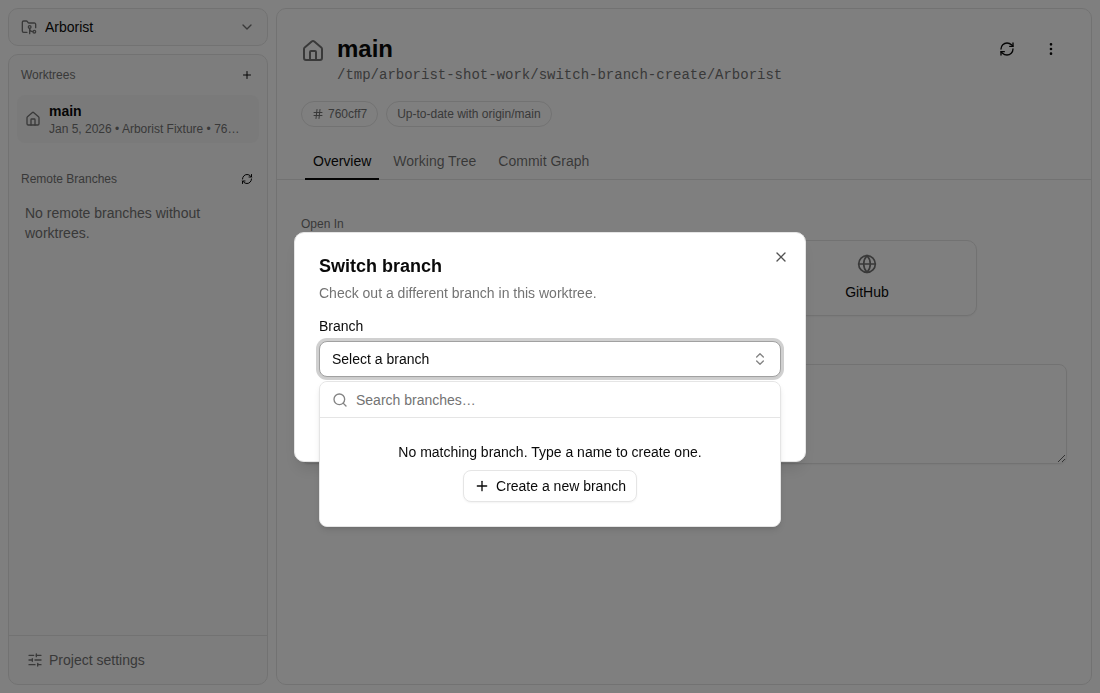
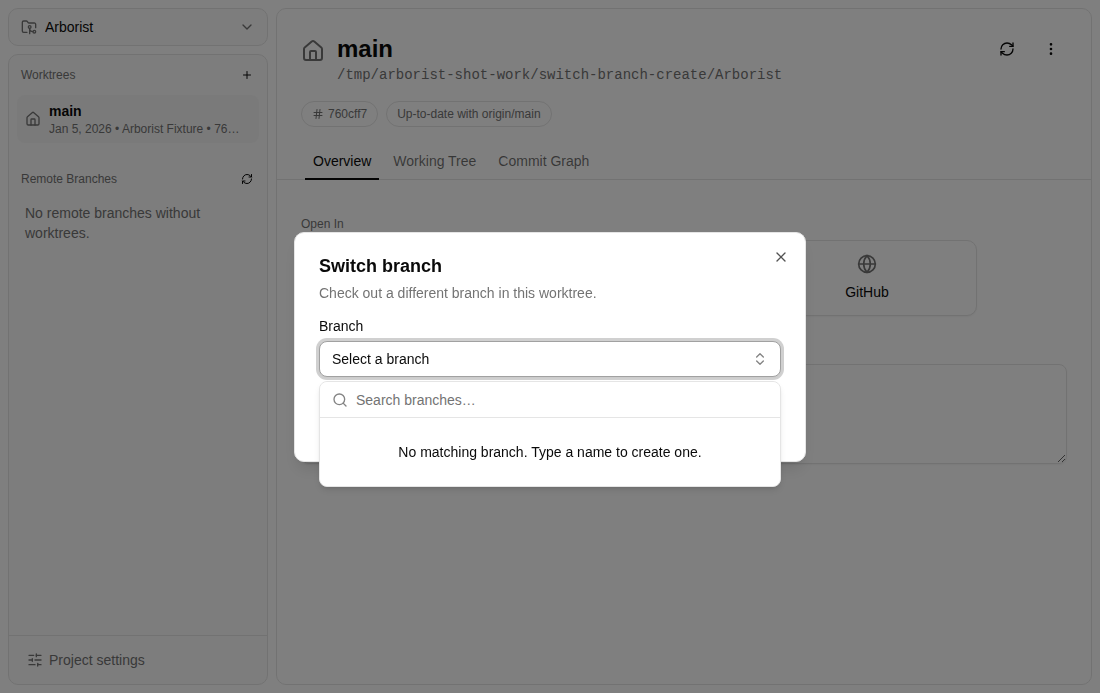
Remove the non-working empty-state create-branch button
The owner reported the "Create a new branch" button added in 66e0046
doesn't work — confirmed: the screenshot scenario's own drive step
couldn't find/click it either (waitFor on the button role timed out).
Rather than chase why a plain Button inside cmdk's CommandEmpty wasn't
receiving clicks, per the owner's own call ("I'm fine to just remove
it, the message is good enough") this drops the button and keeps only
the hint text ("No matching branch. Type a name to create one.").

Updated the switch-branch-create scenario's "empty" step to wait on
the text instead of the removed button.

Claude-Session: https://claude.ai/code/session_01P9H3jnsgNrtaxnqUfaxc3W

Changed region(s): [[0.2782, 0.697, 0.7109, 0.7576]]

diff --git a/src/renderer/src/components/branch-combobox.tsx b/src/renderer/src/components/branch-combobox.tsx
@@ -1,4 +1,4 @@
-import { useRef, useState } from 'react'
+import { useState } from 'react'
 import { Check, ChevronsUpDown, Plus } from 'lucide-react'
 import { cn } from '@/lib/utils'
 import { Button } from '@/components/ui/button'
@@ -27,11 +27,8 @@ export interface BaseRefOption {
  *
  * `allowCreate` adds a "Create branch “x”" row whenever the typed search
  * doesn't exactly match an existing option — the switch-branch dialog's
- * create-a-new-branch flow (#69 review). When there's nothing typed yet and
- * nothing to pick from, the empty state itself calls that out with a button
- * rather than relying on the user already knowing typing a name works (#69
- * review, round two). The base-ref picker on create-worktree leaves it
- * unset: every base there has to already exist.
+ * create-a-new-branch flow (#69 review). The base-ref picker on
+ * create-worktree leaves it unset: every base there has to already exist.
  */
 export function BranchCombobox({
   value,
@@ -48,7 +45,6 @@ export function BranchCombobox({
 }): React.JSX.Element {
   const [open, setOpen] = useState(false)
   const [search, setSearch] = useState('')
-  const inputRef = useRef<HTMLInputElement>(null)
   const selected = options.find((option) => option.value === value)
 
   const trimmedSearch = search.trim()
@@ -96,38 +92,14 @@ export function BranchCombobox({
         onOpenAutoFocus={(event) => event.preventDefault()}
       >
         <Command>
-          <CommandInput
-            ref={inputRef}
-            placeholder="Search branches…"
-            value={search}
-            onValueChange={setSearch}
-          />
+          <CommandInput placeholder="Search branches…" value={search} onValueChange={setSearch} />
           <CommandList>
             <CommandEmpty>
-              {loading ? (
-                'Loading…'
-              ) : allowCreate && trimmedSearch.length === 0 ? (
-                // Nothing typed yet and nothing to pick from — the bare "No
-                // matching branch." left the create flow undiscoverable
-                // (#69 review): a button gives it a visible affordance
-                // rather than relying on the user to already know that
-                // typing a name works.
-                <div className="flex flex-col items-center gap-2">
-                  <span>No matching branch. Type a name to create one.</span>
-                  <Button
-                    type="button"
-                    variant="outline"
-                    size="sm"
-                    className="gap-1.5"
-                    onClick={() => inputRef.current?.focus()}
-                  >
-                    <Plus />
-                    Create a new branch
-                  </Button>
-                </div>
-              ) : (
-                'No matching branch.'
-              )}
+              {loading
+                ? 'Loading…'
+                : allowCreate && trimmedSearch.length === 0
+                  ? 'No matching branch. Type a name to create one.'
+                  : 'No matching branch.'}
             </CommandEmpty>
             {showCreate && (
               <CommandGroup heading="Create">

diff --git a/scripts/screenshots/scenarios.ts b/scripts/screenshots/scenarios.ts
@@ -1127,13 +1127,12 @@ export const scenarios: Scenario[] = [
     name: 'switch-branch-create',
     description:
       'Creating a new branch from the switch-branch picker (#69 review): ' +
-      'the empty state\'s "Create a new branch" button and hint text before ' +
-      'anything is typed — this fixture has no other local branches to ' +
-      'pick, so that empty state is what greets the picker — the "Create ' +
-      'branch" row that then appears once a typed name matches no existing ' +
-      'branch, the Base picker it reveals (defaulting to HEAD), and the ' +
-      'worktree afterwards, now checked out on the branch that was just ' +
-      'created.',
+      'the empty state\'s hint text before anything is typed — this fixture ' +
+      'has no other local branches to pick, so that empty state is what ' +
+      'greets the picker — the "Create branch" row that then appears once ' +
+      'a typed name matches no existing branch, the Base picker it reveals ' +
+      '(defaulting to HEAD), and the worktree afterwards, now checked out ' +
+      'on the branch that was just created.',
     setup: async ({ workDir }) => {
       const fixture = new GitFixture(workDir, 'Arborist')
       await fixture.init()
@@ -1149,7 +1148,7 @@ export const scenarios: Scenario[] = [
       await window.getByTestId('switch-branch-dialog').waitFor({ state: 'visible' })
       await window.getByRole('combobox').first().click()
       await window
-        .getByRole('button', { name: 'Create a new branch' })
+        .getByText('No matching branch. Type a name to create one.')
         .waitFor({ state: 'visible' })
       await shot('empty')
 
